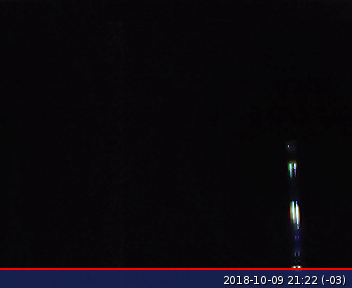
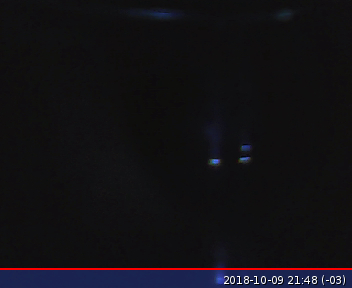
Tue Oct  9 21:48:42 2018

diff --git a/index.html b/index.html
@@ -51,7 +51,7 @@
 		<section class="info">
 			<div align="center">
 				<!-- FECHA Y HORA -->
-				<font size="30%">Tue Oct  9 21:22:57 2018</font>
+				<font size="30%">Tue Oct  9 21:48:42 2018</font>
 			</div>
 	</section>
 
